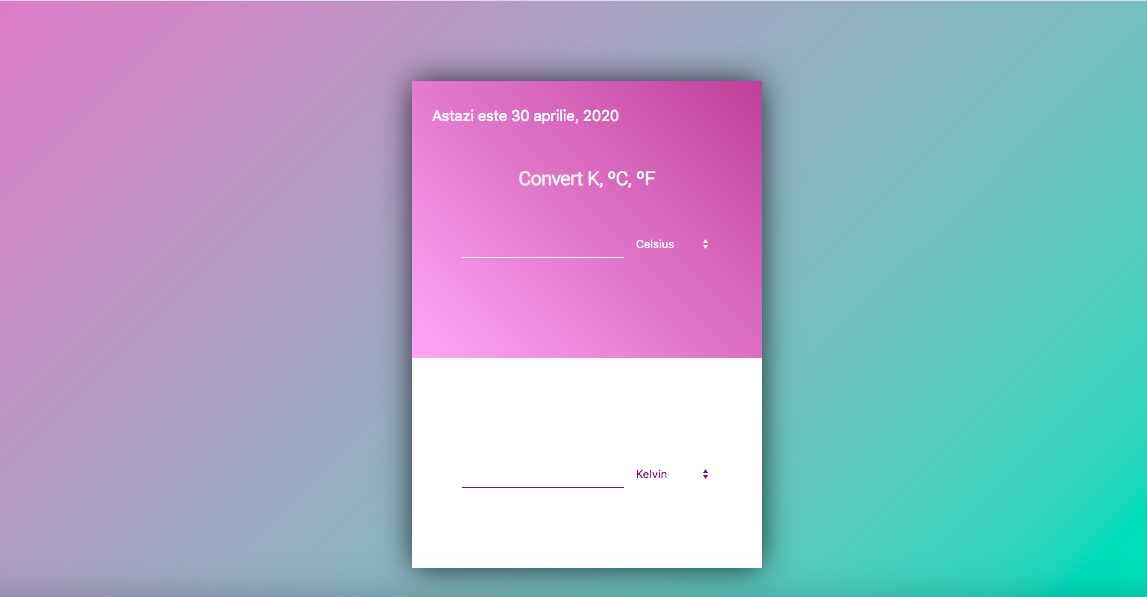
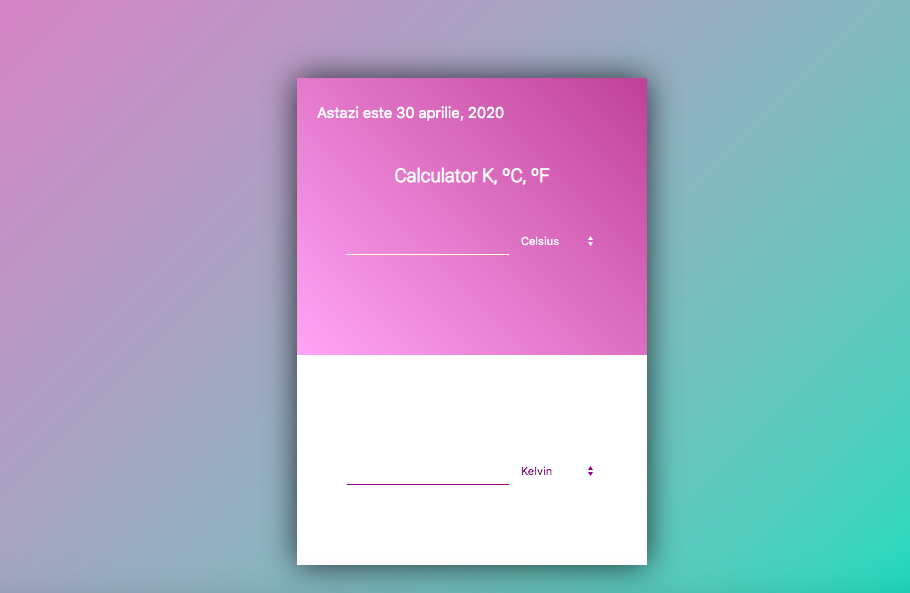
third

diff --git a/index.html b/index.html
@@ -18,7 +18,7 @@
                     </div>
             </div>
           
-            <h3>Convert K, ºC, ºF </h3>
+            <h3>Calculator K, ºC, ºF </h3>
             <div class="primary">
                 <input type="number" id="main-unit">
                 <select class="main-unit-options reset">
@@ -38,7 +38,7 @@
                     </select>
                 </div>
             </div>
-</div>
+        </div>
         </div>
     </div>
     <script src="https://unpkg.com/ionicons@4.5.10-0/dist/ionicons.js"></script>

diff --git a/README.md b/README.md
@@ -1,11 +1,11 @@
 # calculatorkfc
-// Calculator //
-Calculeaza valori din :
-Celsius in Kelvin
-Celsius in Farenheight
-Kelvin in Celsius
-Kelvin in Farenheight
-Farenheight in Celsius
-Farenheight in Kelvin
+// Calculator K, ºC, ºF //
+Calculeaza valori din :  
+Celsius in Kelvin  
+Celsius in Farenheight  
+Kelvin in Celsius  
+Kelvin in Farenheight  
+Farenheight in Celsius  
+Farenheight in Kelvin  
 
 ![Aplicatia](readme.png)
